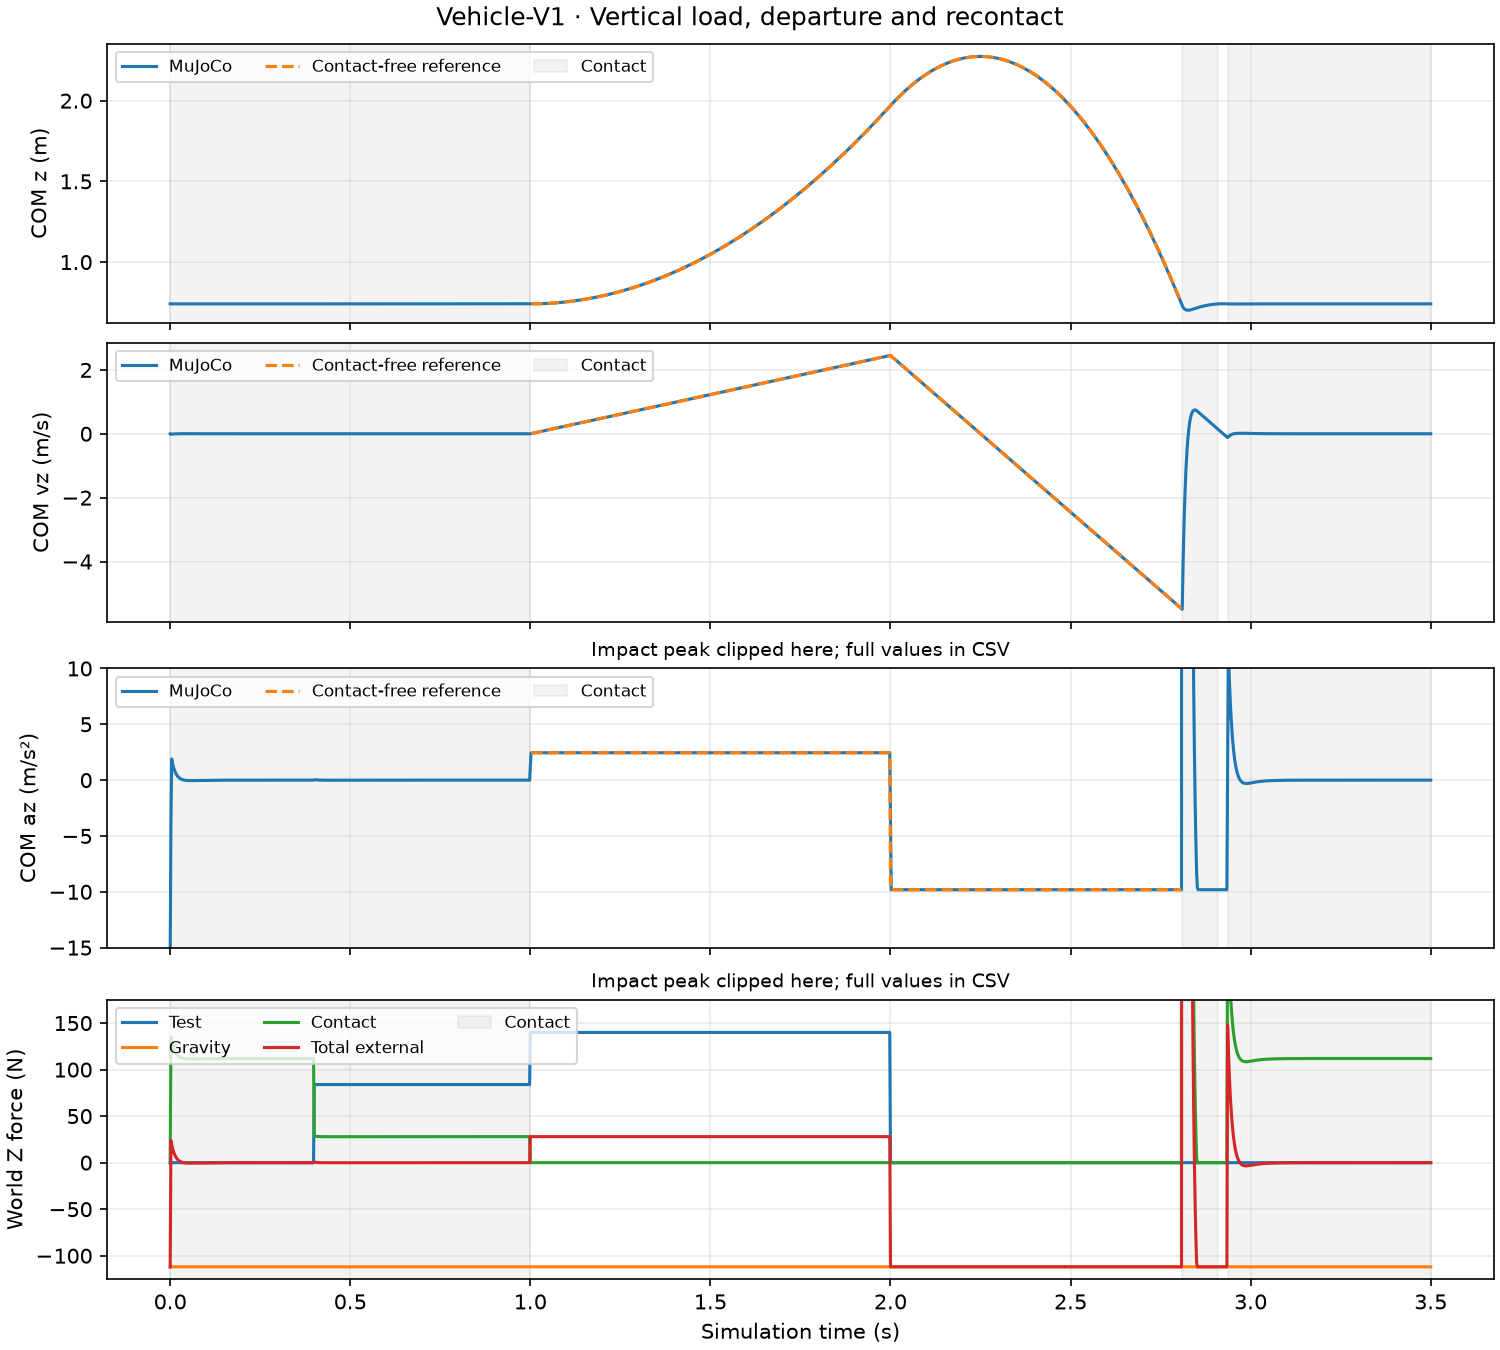
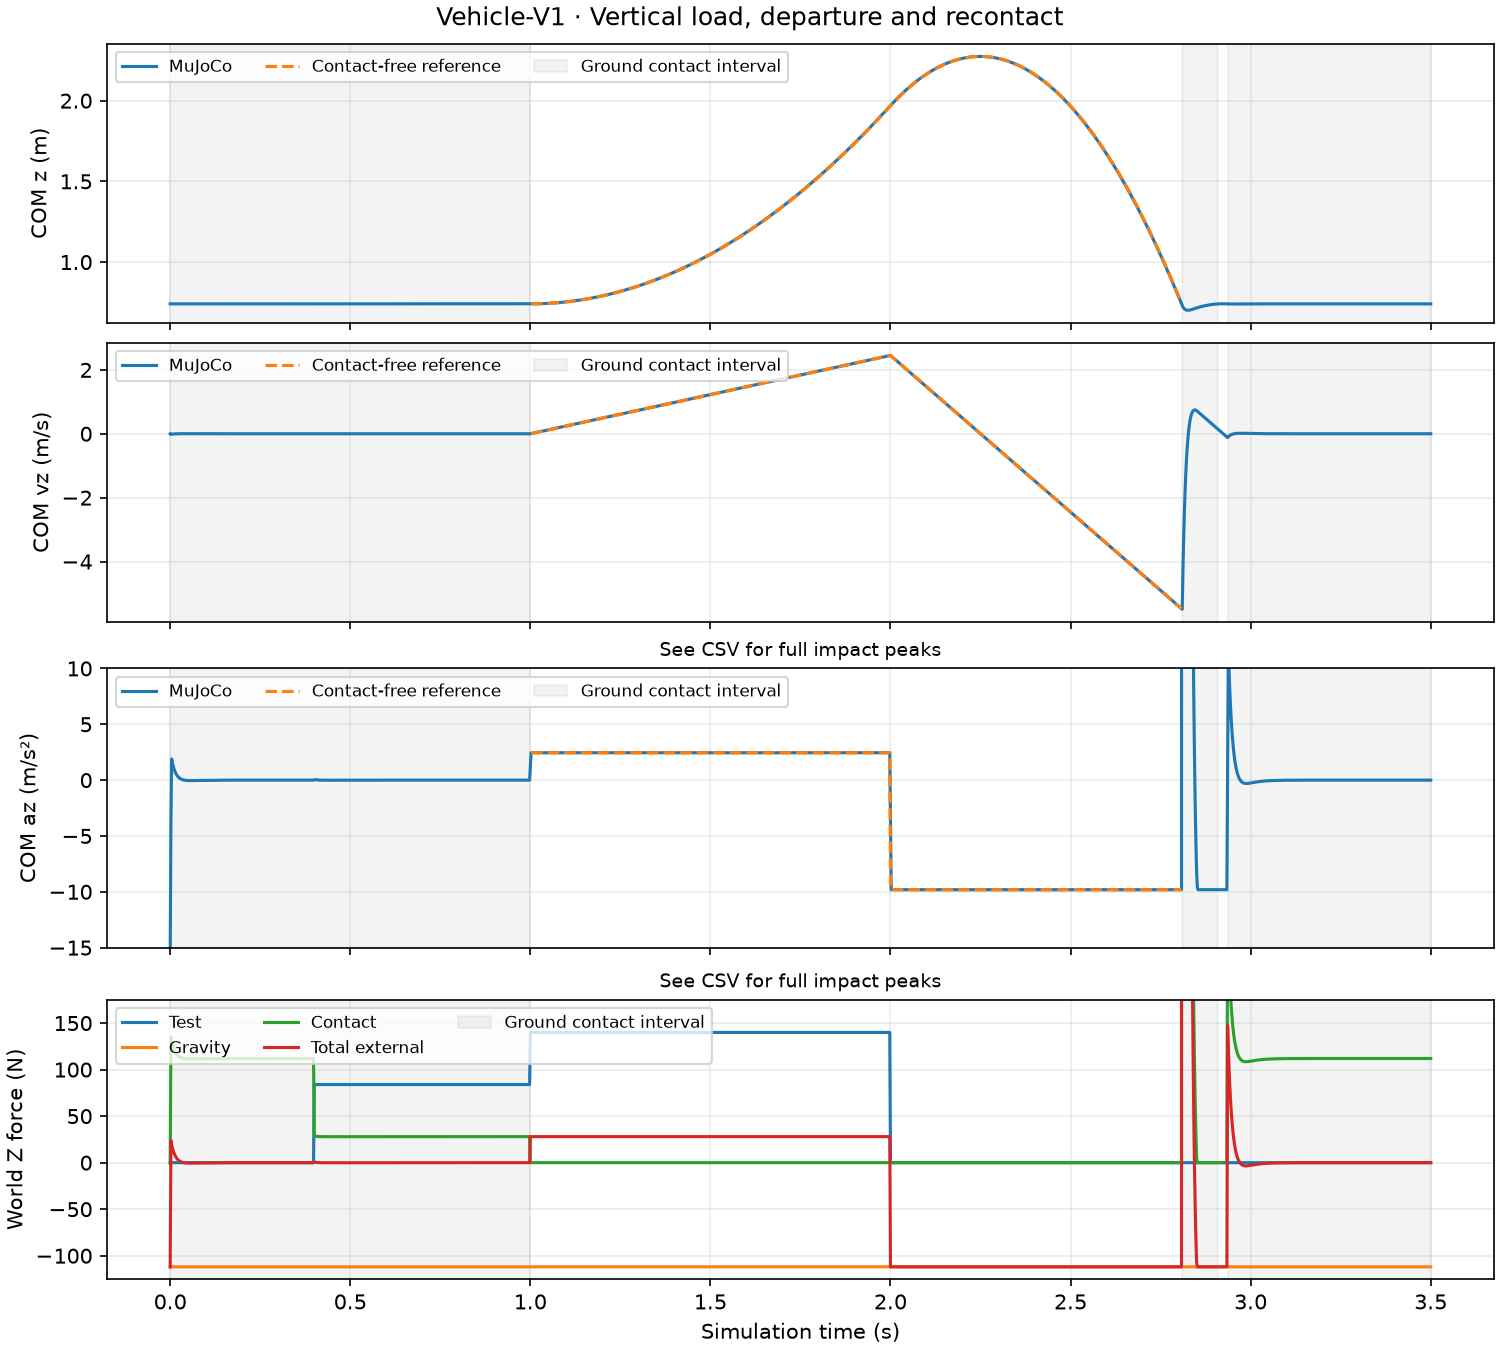
Clarify the contact shading on the vertical plot

diff --git a/prototypes/aether_v1/motion/plots.py b/prototypes/aether_v1/motion/plots.py
@@ -26,17 +26,17 @@ def plot(output, histories):
         ax.plot(time, signal(vertical, ref), "--", label="Contact-free reference")
         ax.set_ylabel(label)
     axes[2].set_ylim(-15, 10)
-    axes[2].set_title("Impact peak clipped here; full values in CSV", fontsize=9)
+    axes[2].set_title("See CSV for full impact peaks", fontsize=9)
     for field, label in (("applied_test", "Test"), ("gravity", "Gravity"),
                          ("contact", "Contact"), ("total_external", "Total external")):
         axes[3].plot(time, signal(vertical, f"{field}_force_N_z"), label=label)
     axes[3].set_ylim(-125, 175)
-    axes[3].set_title("Impact peak clipped here; full values in CSV", fontsize=9)
+    axes[3].set_title("See CSV for full impact peaks", fontsize=9)
     axes[3].set_ylabel("World Z force (N)")
     contact = signal(vertical, "contact_points") > 0
     for ax in axes:
         ax.fill_between(time, 0, 1, where=contact, alpha=.09, color="gray",
-                        transform=ax.get_xaxis_transform(), label="Contact")
+                        transform=ax.get_xaxis_transform(), label="Ground contact interval")
         ax.grid(alpha=.25)
         ax.legend(loc="upper left", ncols=3, fontsize=8)
     axes[-1].set_xlabel("Simulation time (s)")
